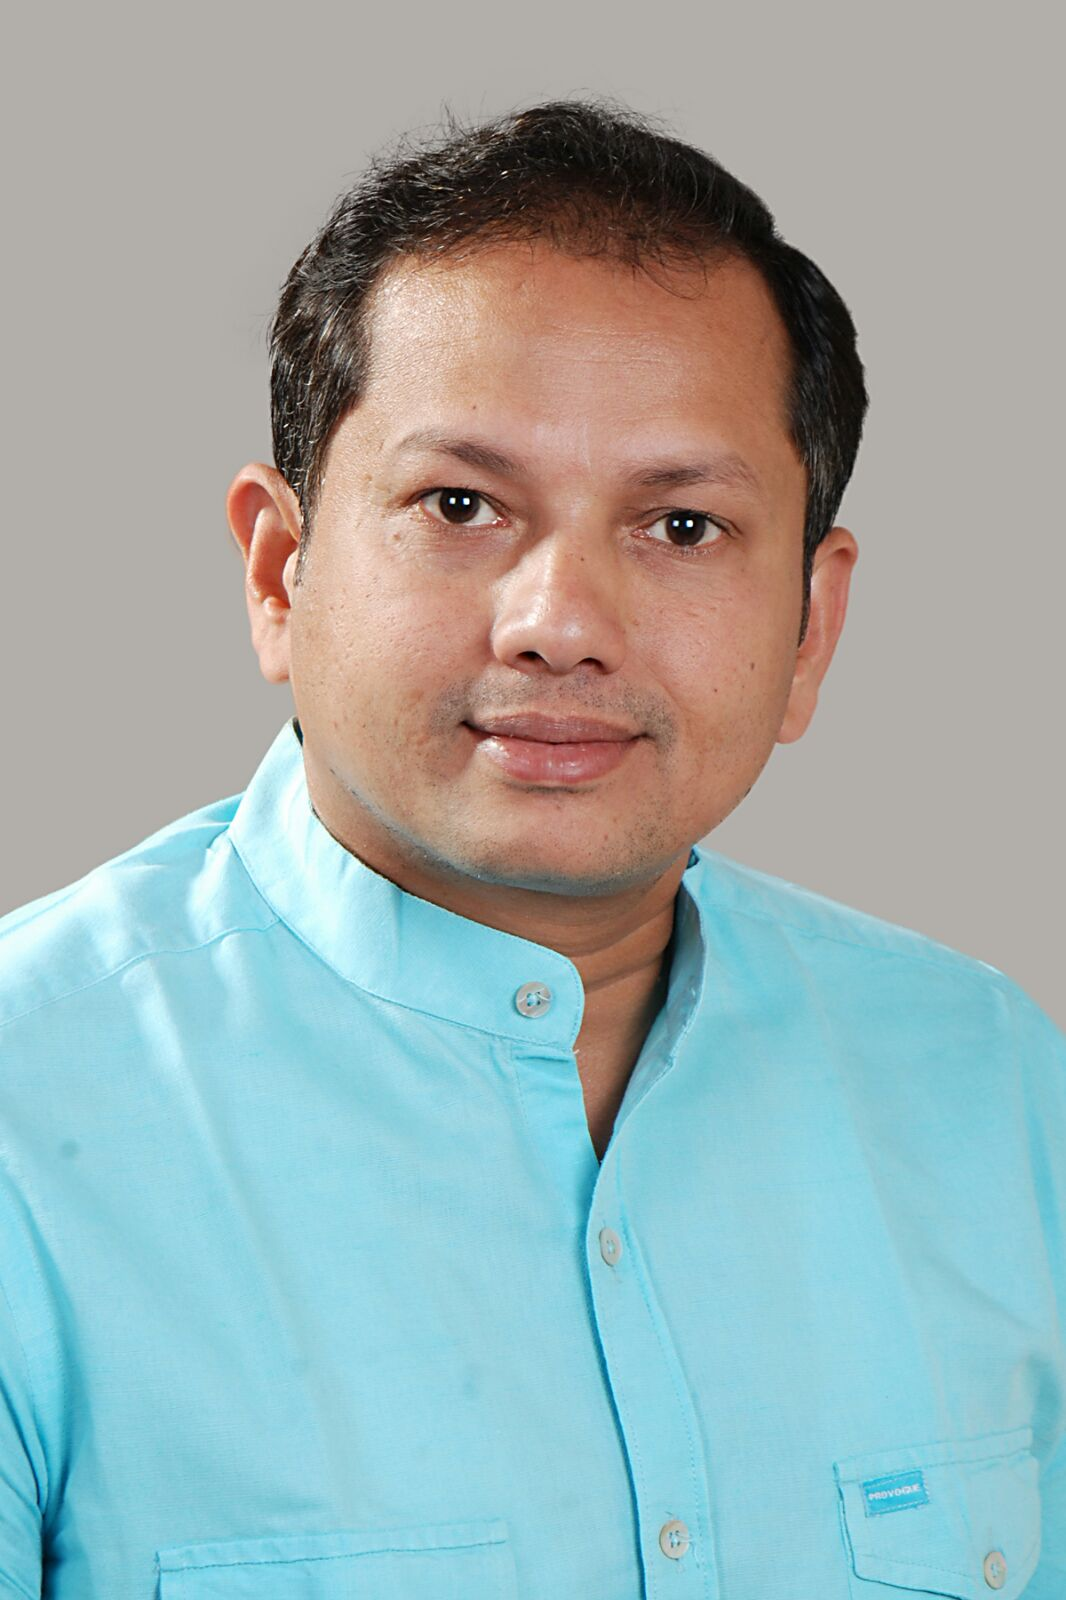
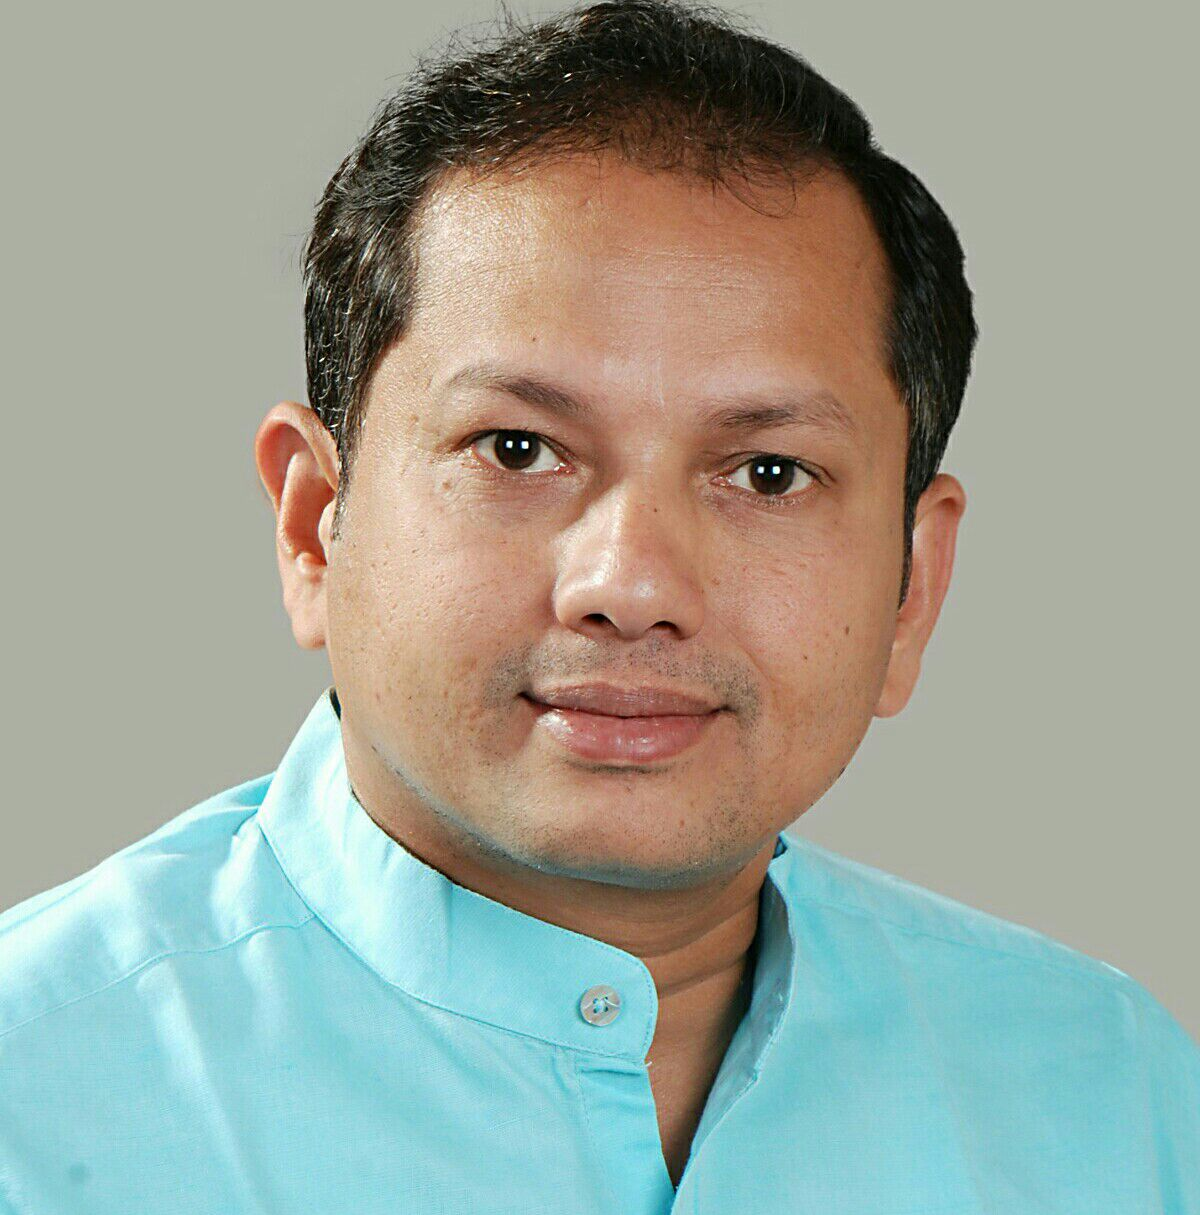
Add photos to the team page

diff --git a/donations/templates/donations/nav_bar/people.html b/donations/templates/donations/nav_bar/people.html
@@ -9,23 +9,40 @@
   <h1 class='text-center'>Meet The Team!</h1>
 </div>
 <hr>
-<h3 class="text-center">FOUNDERS</h3>
 <div class="row">
-	<div class="col-md-4 col-md-offset-1">
-		<figure class="snip1091 navy center-block">
-			<img class="img-responsive center-block" src="{% static "donations/img/people/JivanKotian.JPG" %}" alt="Jivan Kotian"/>
-			<figcaption>
-		    	<h2>Jivan  <span>Kotian</span></h2>
-		  	</figcaption>
-		</figure>
+	<div class="col-md-8">
+		<div class="row">
+			<h3 class="text-center">FOUNDERS</h3>
+			<div class="col-md-4 col-md-offset-1">
+				<figure class="snip1091 navy center-block">
+					<img class="img-responsive center-block" src="{% static "donations/img/people/JivanKotian.JPG" %}" alt="Jivan Kotian"/>
+					<figcaption>
+				    	<h2>Jivan  <span>Kotian</span></h2>
+				  	</figcaption>
+				</figure>
+			</div>
+			<div class="col-md-4 col-md-offset-2">
+				<figure class="snip1091 navy center-block">
+					<img class="img-responsive center-block" src="{% static "donations/img/people/FrankDsouza.jpg" %}" alt="Frank D'souza"/>
+					<figcaption>
+				    	<h2>Frank  <span>D'souza</span></h2>
+				  	</figcaption>
+				</figure>
+			</div>
+		</div>		
 	</div>
-	<div class="col-md-4 col-md-offset-2">
-		<figure class="snip1091 navy center-block">
-			<img class="img-responsive center-block" src="{% static "donations/img/people/FrankDsouza.jpg" %}" alt="Frank D'souza"/>
-			<figcaption>
-		    	<h2>Frank  <span>D'souza</span></h2>
-		  	</figcaption>
-		</figure>
+	<div class="col-md-4" style="border-left: 2px solid #009688">
+		<div class="row">
+			<h3 class="text-center">WEB PLATFORM</h3>
+			<div class="col-md-12">
+				<figure class="snip1091 navy center-block">
+					<img class="img-responsive center-block" src="{% static "donations/img/people/CajetanRodrigues.jpg" %}" alt="Cajetan Rodrigues"/>
+					<figcaption>
+				    	<h2>Cajetan <span>Rodrigues</span></h2>
+				  	</figcaption>
+				</figure>
+			</div>
+		</div>		
 	</div>
 </div>
 <hr>
@@ -99,7 +116,7 @@
 <div class="row">
 	<div class="col-md-4 col-md-offset-1">
 		<figure class="snip1091 navy center-block">
-			<img class="img-responsive center-block" src="{% static "donations/img/people/dummy_profile_2.png" %}" alt="Mario Sequeira"/>
+			<img class="img-responsive center-block" src="{% static "donations/img/people/MarioSequeira.jpg" %}" alt="Mario Sequeira"/>
 			<figcaption>
 		    	<h2>Mario  <span>Sequeira</span></h2>
 		  	</figcaption>
@@ -127,7 +144,7 @@
 	</div>
 	<div class="col-md-4 ">
 		<figure class="snip1091 navy center-block">
-			<img class="img-responsive center-block" src="{% static "donations/img/people/dummy_profile_1.jpg" %}" alt="Yvonne Kotian"/>
+			<img class="img-responsive center-block" src="{% static "donations/img/people/YvonneKotian.jpg" %}" alt="Yvonne Kotian"/>
 			<figcaption>
 		    	<h2>Yvonne  <span>Kotian</span></h2>
 		  	</figcaption>
@@ -164,17 +181,6 @@
 <hr>
 <h3 class="text-center">ADMINISTRATION TEAM - TBA</h3>
 <hr>
-<h3 class="text-center">WEB PLATFORM</h3>
-<div class="row">
-	<div class="col-md-12">
-		<figure class="snip1091 navy center-block">
-			<img class="img-responsive center-block" src="{% static "donations/img/people/CajetanRodrigues.jpg" %}" alt="Cajetan Rodrigues"/>
-			<figcaption>
-		    	<h2>Cajetan  <span>Rodrigues</span></h2>
-		  	</figcaption>
-		</figure>
-	</div>
-</div>
 </div>
 
 

diff --git a/donations/static/donations/css/people.css b/donations/static/donations/css/people.css
@@ -1,4 +1,7 @@
 @import url(https://fonts.googleapis.com/css?family=Raleway:400,800);
+hr {
+  border-radius: 15px;
+}
 figure.snip1091 {
   font-family: 'Raleway', Arial, sans-serif;
   position: relative;
